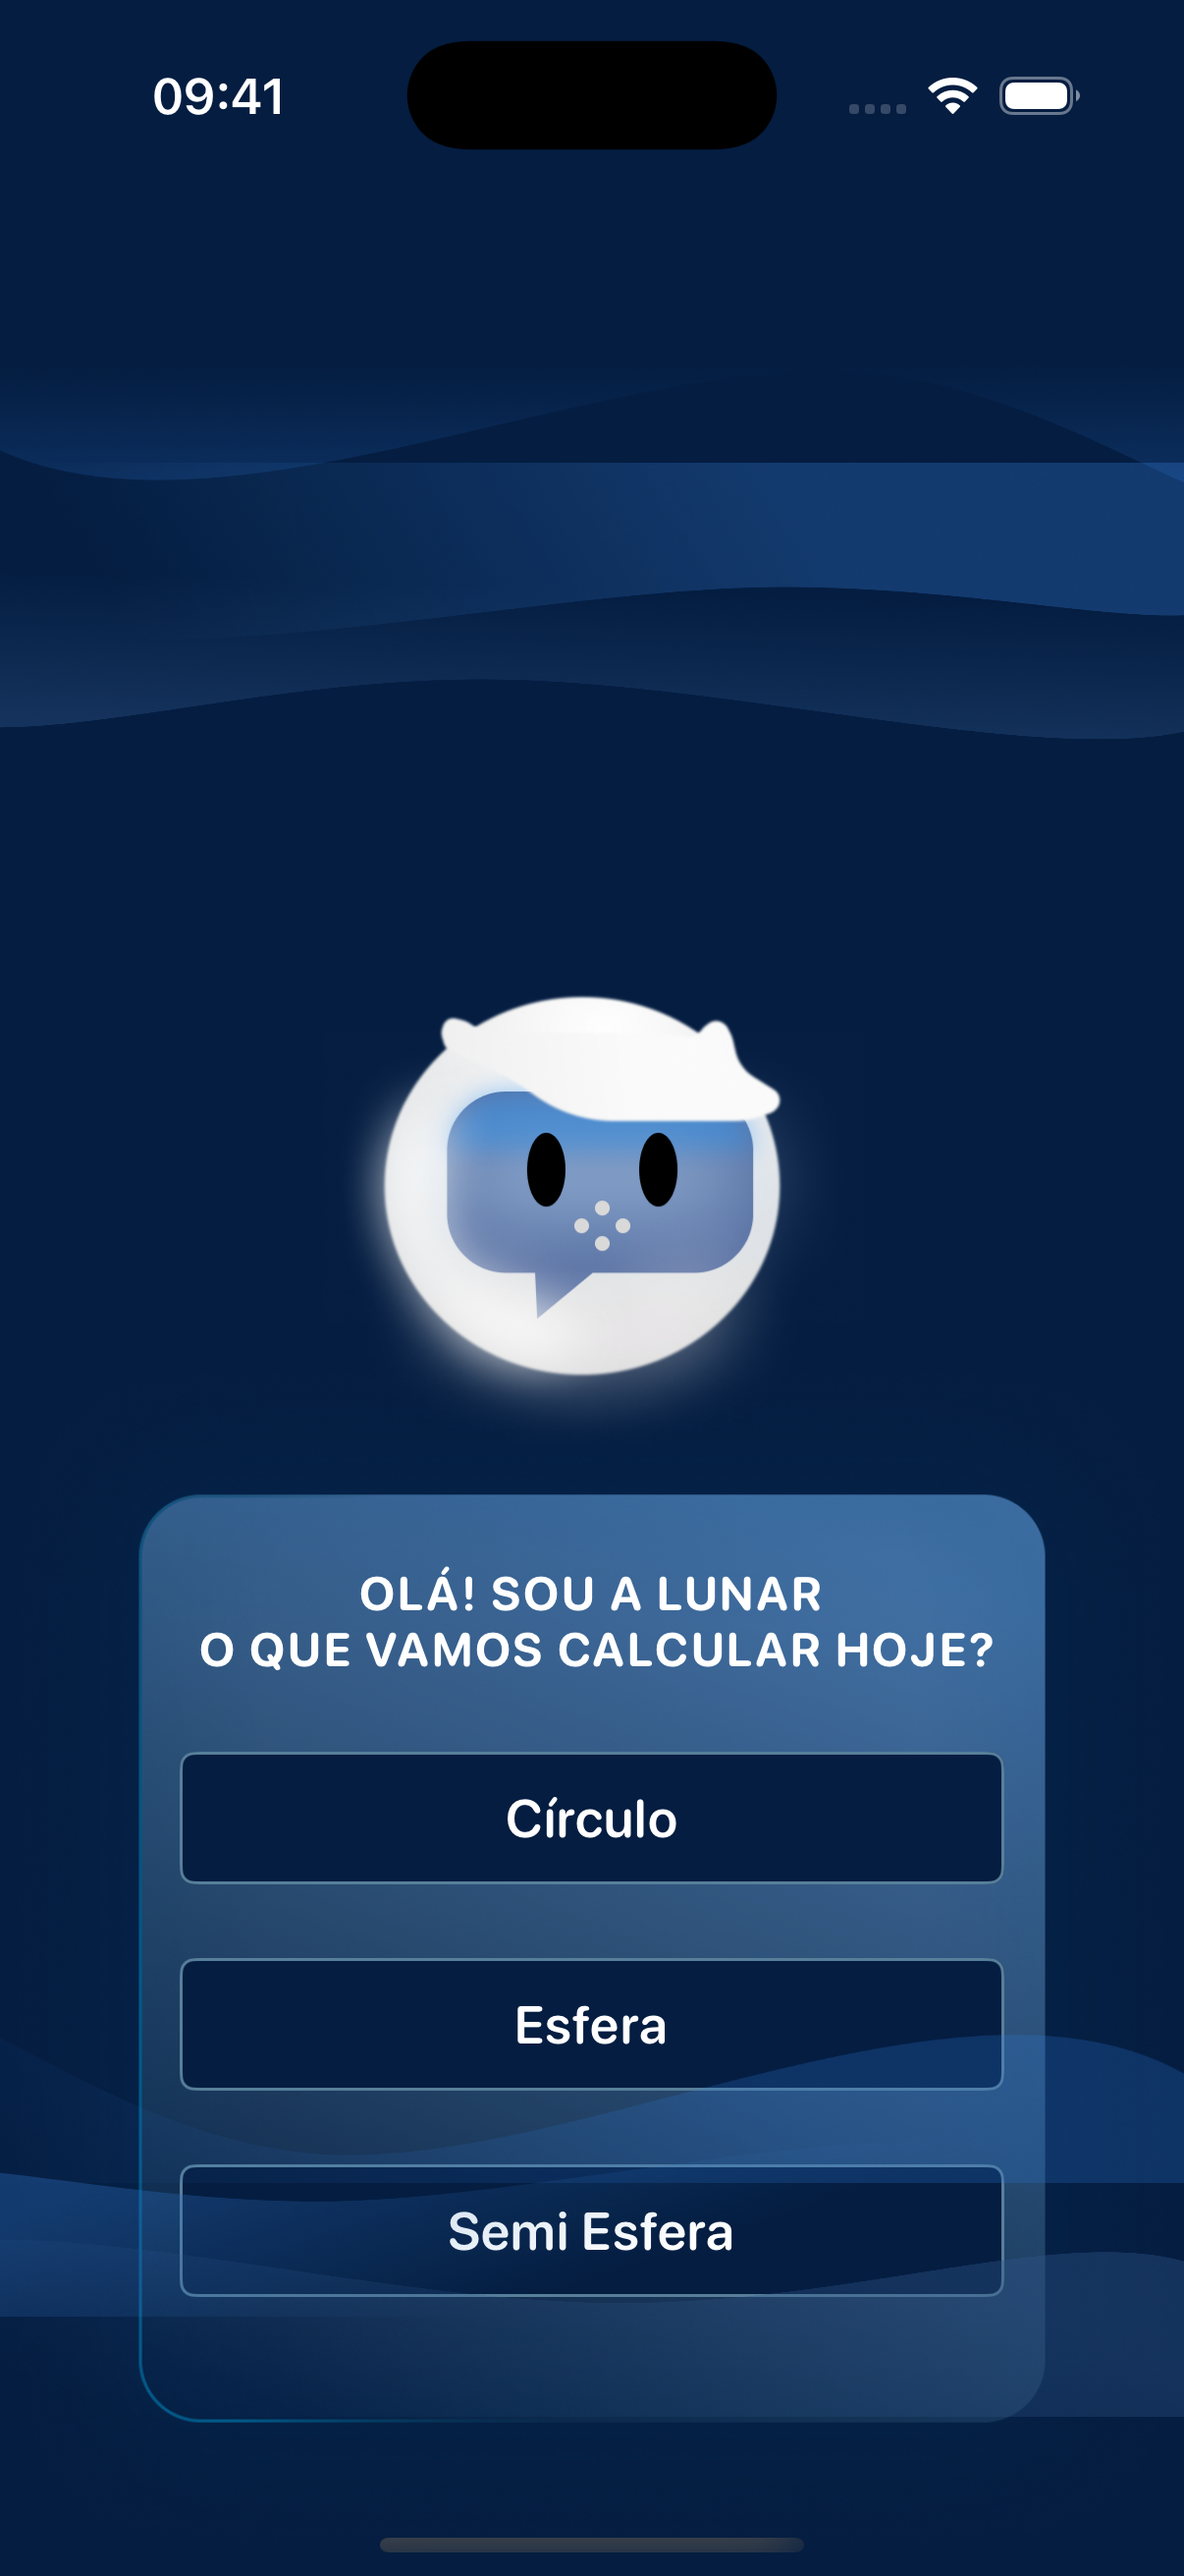
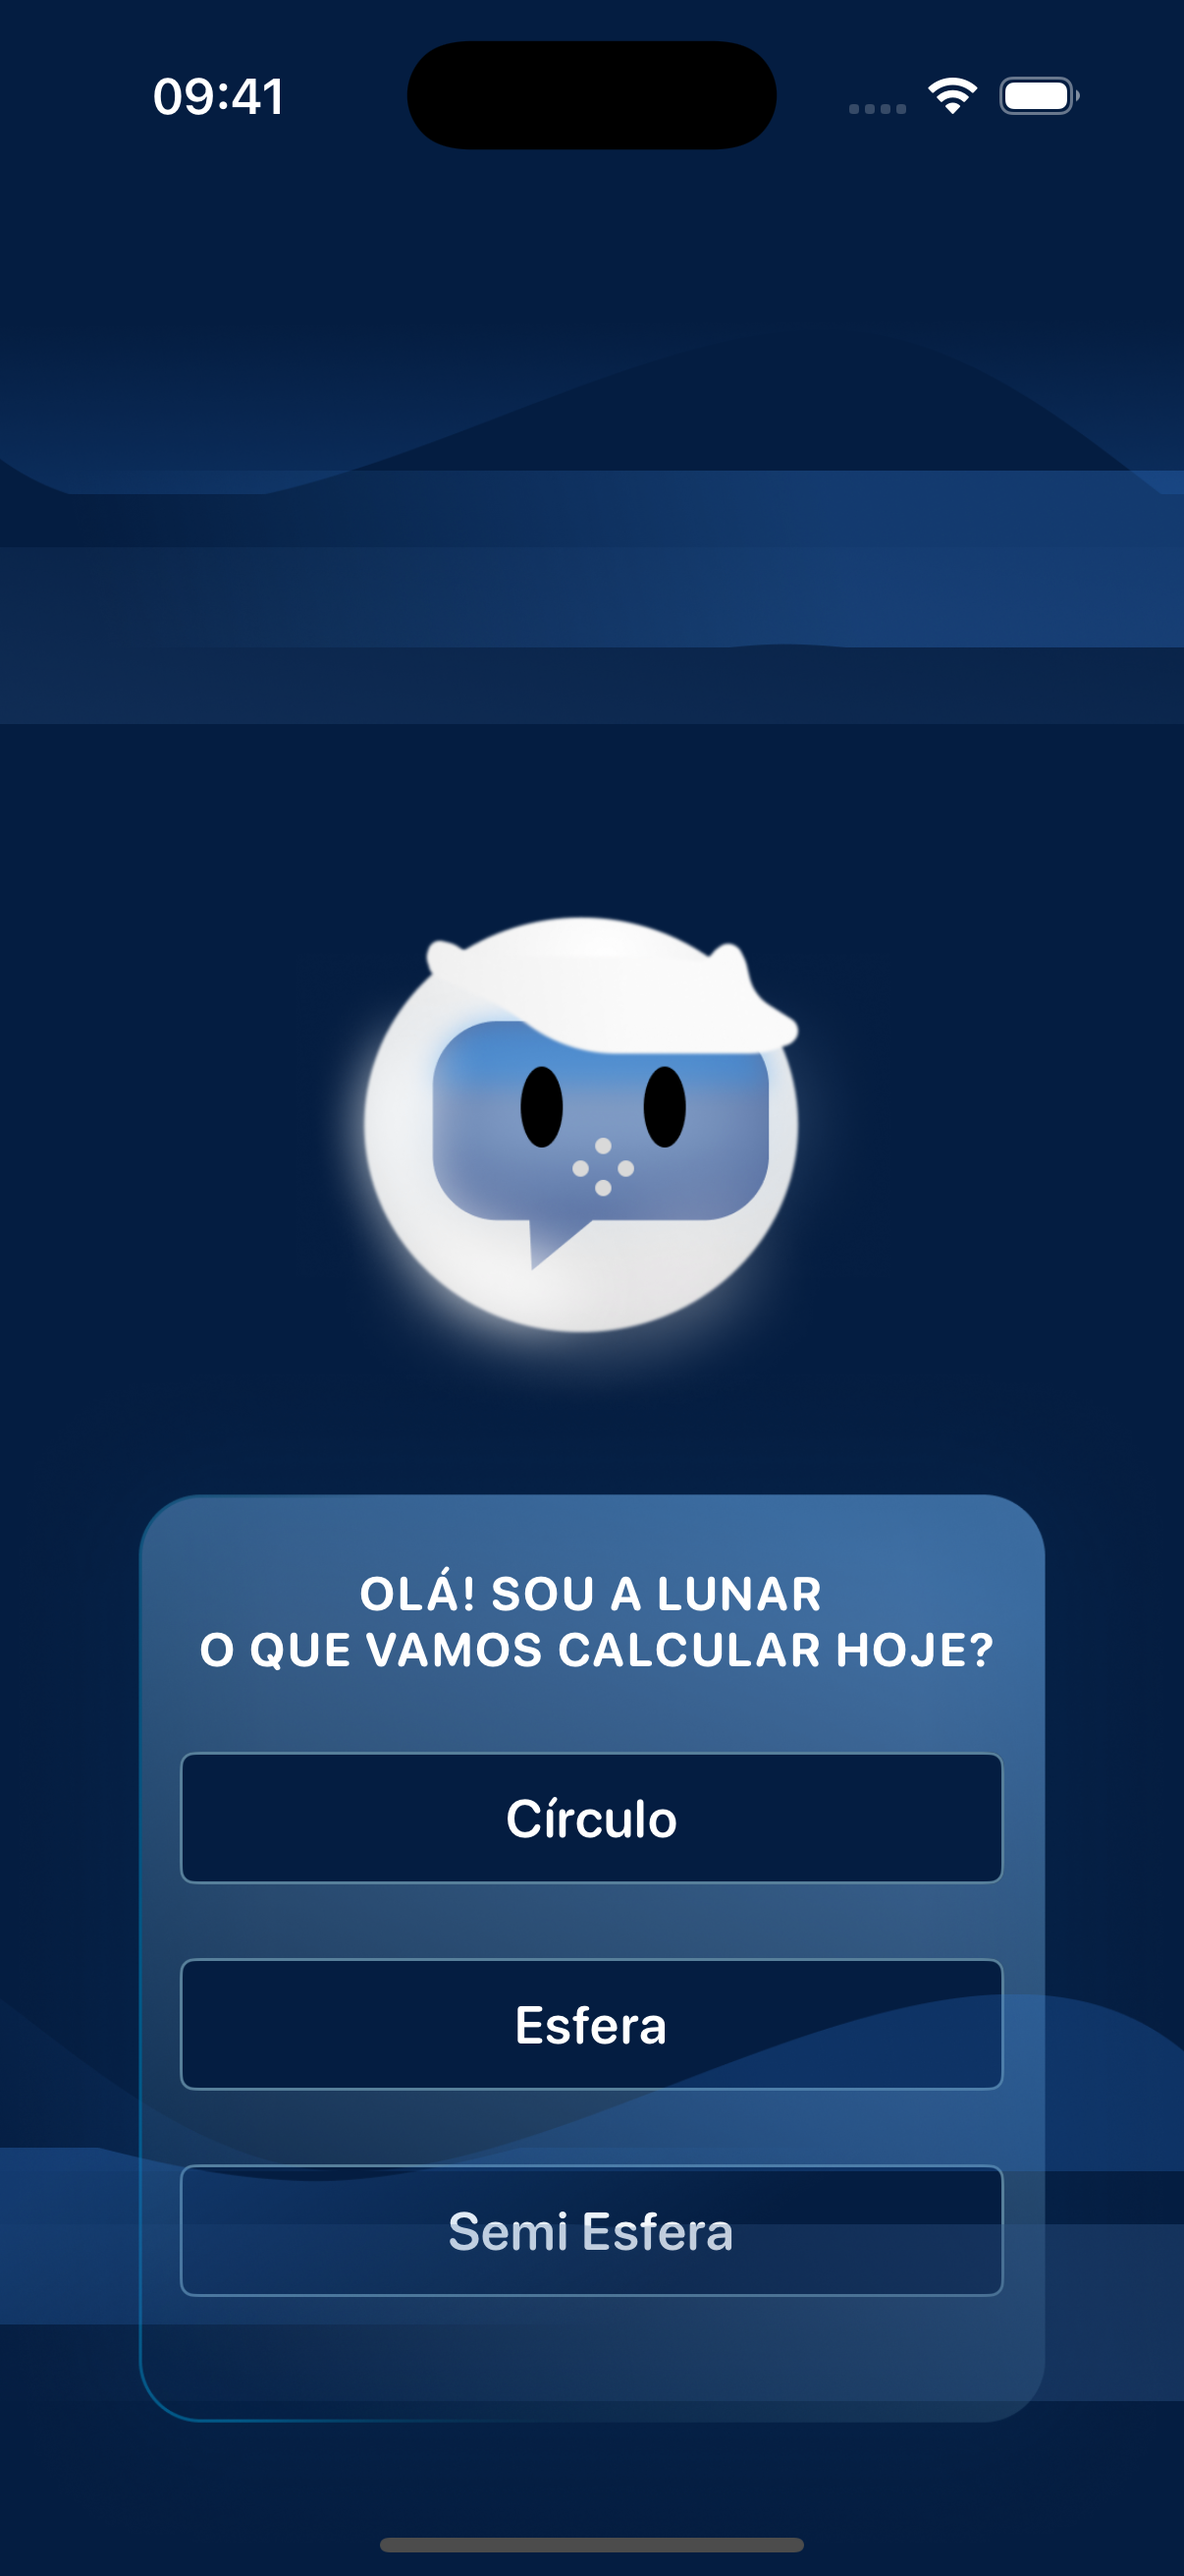
Corrige nuvens deformadas e centraliza colunas da calculadora
- Nuvens com scaleAspectFill em vez de scaleToFill
- Colunas da calculadora com larguras iguais
- Atualiza screenshots

diff --git a/Luna/Sources/Circle/CircleView.swift b/Luna/Sources/Circle/CircleView.swift
@@ -71,7 +71,7 @@ class CircleView: UIView, UIPickerViewDelegate, UIPickerViewDataSource, UITextFi
             textFieldNumb.trailingAnchor.constraint(equalTo: trailingAnchor, constant: -40),
             textFieldNumb.centerYAnchor.constraint(equalTo: textField.centerYAnchor),
             textFieldNumb.heightAnchor.constraint(equalToConstant: 40),
-            textFieldNumb.widthAnchor.constraint(equalTo: textField.widthAnchor, multiplier: 0.7)
+            textFieldNumb.widthAnchor.constraint(equalTo: textField.widthAnchor)
         ])
     }
     
@@ -162,7 +162,7 @@ class CircleView: UIView, UIPickerViewDelegate, UIPickerViewDataSource, UITextFi
                 resultLabel.trailingAnchor.constraint(equalTo: trailingAnchor, constant: -40),
                 resultLabel.centerYAnchor.constraint(equalTo: label.centerYAnchor),
                 resultLabel.heightAnchor.constraint(equalToConstant: 40),
-                resultLabel.widthAnchor.constraint(equalTo: label.widthAnchor, multiplier: 0.7)
+                resultLabel.widthAnchor.constraint(equalTo: label.widthAnchor)
             ])
         }
         

diff --git a/Luna/Sources/CloudView/CloudBottomView.swift b/Luna/Sources/CloudView/CloudBottomView.swift
@@ -67,9 +67,12 @@ class CloudBottomView: UIView {
         cloudBottomTow.translatesAutoresizingMaskIntoConstraints = false
         cloudBottomThree.translatesAutoresizingMaskIntoConstraints = false
 
-        cloudBottomOne.contentMode = .scaleToFill
-        cloudBottomTow.contentMode = .scaleToFill
-        cloudBottomThree.contentMode = .scaleToFill
+        cloudBottomOne.contentMode = .scaleAspectFill
+        cloudBottomTow.contentMode = .scaleAspectFill
+        cloudBottomThree.contentMode = .scaleAspectFill
+        cloudBottomOne.clipsToBounds = true
+        cloudBottomTow.clipsToBounds = true
+        cloudBottomThree.clipsToBounds = true
 
         NSLayoutConstraint.activate([
             cloudBottomOne.leadingAnchor.constraint(equalTo: leadingAnchor),

diff --git a/Luna/Sources/CloudView/CloudTopView.swift b/Luna/Sources/CloudView/CloudTopView.swift
@@ -70,9 +70,12 @@ class CloudTopView: UIView {
         cloudTopTow.translatesAutoresizingMaskIntoConstraints = false
         cloudTopThree.translatesAutoresizingMaskIntoConstraints = false
 
-        cloudTopOne.contentMode = .scaleToFill
-        cloudTopTow.contentMode = .scaleToFill
-        cloudTopThree.contentMode = .scaleToFill
+        cloudTopOne.contentMode = .scaleAspectFill
+        cloudTopTow.contentMode = .scaleAspectFill
+        cloudTopThree.contentMode = .scaleAspectFill
+        cloudTopOne.clipsToBounds = true
+        cloudTopTow.clipsToBounds = true
+        cloudTopThree.clipsToBounds = true
 
         NSLayoutConstraint.activate([
             cloudTopThree.leadingAnchor.constraint(equalTo: leadingAnchor),
